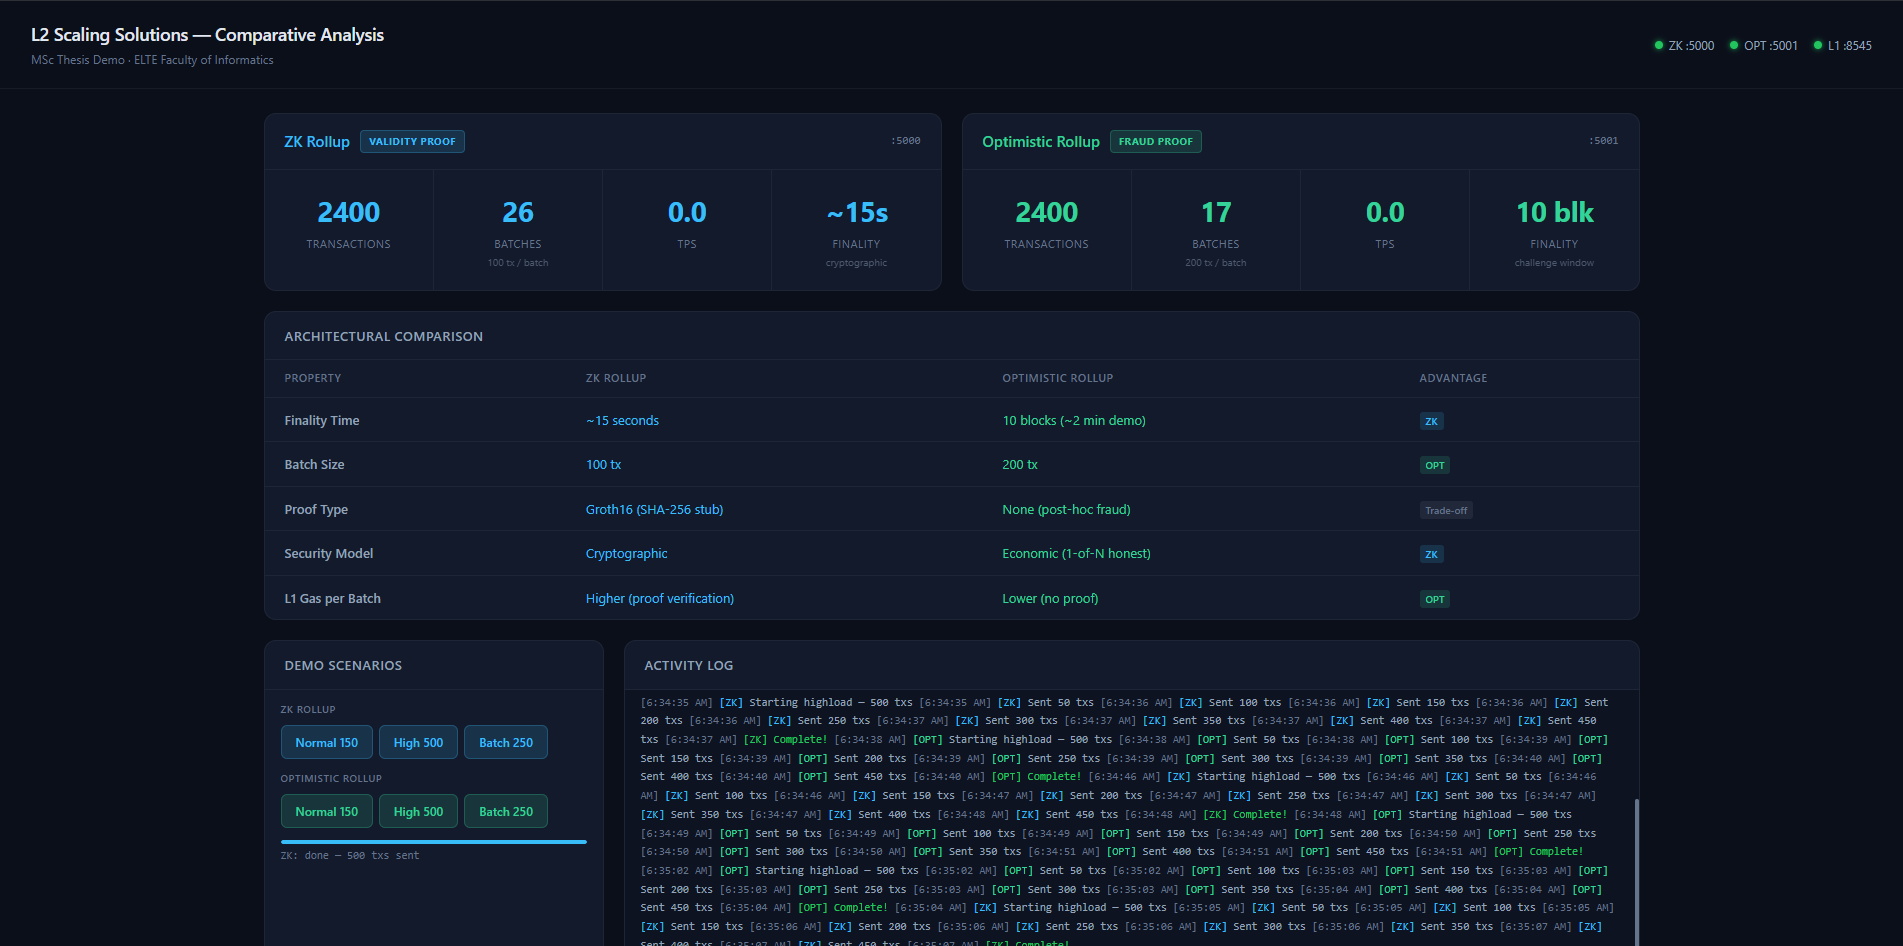
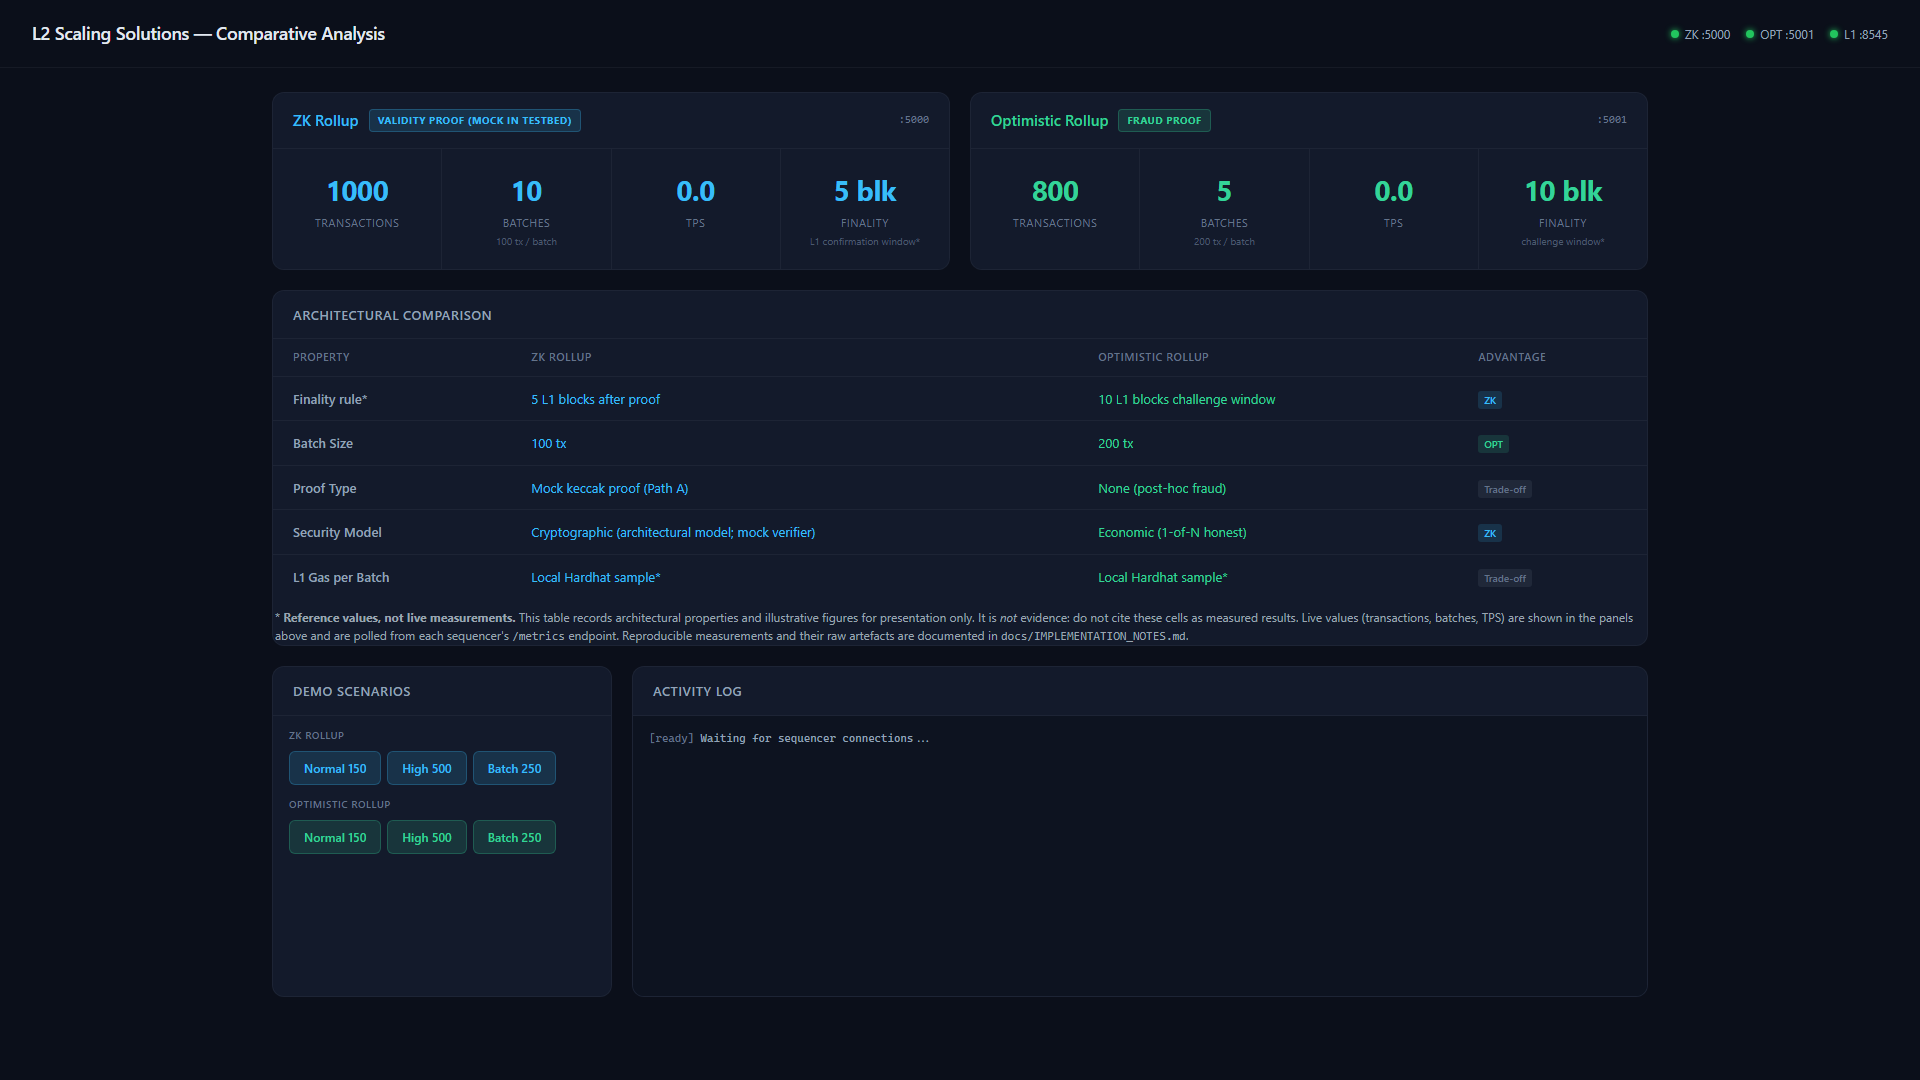
Refresh thesis dashboard figures and document reproduction
- Regenerate Grafana top/bottom and Flask overview screenshots with the
  current panel titles (L1 submission latency, mock proof labelling).
- Add a tested Playwright capture script and exact manual crop coordinates;
  Grafana scrolls internally so fullPage screenshots omit lower panels.
- Fix stale proof/state-root/contract-loading claims in figure captions and
  implementation prose; cap the oversized batch-flow figure.
- Note that the MetaMask screenshot predates the current mock-proof labels.
- Document traffic injection, stack ports, and the measurement source.

diff --git a/ths/images/capture_dashboards.js b/ths/images/capture_dashboards.js
@@ -1,0 +1,113 @@
+// Regenerate the three dashboard figures used by the thesis.
+//
+// Requirements:
+//   - the demo stack running: docker compose up --build -d
+//   - playwright-core installed locally: npm install --no-save playwright-core
+//   - a local Chromium/Edge executable (override with BROWSER_PATH)
+//
+// Run from this directory: node capture_dashboards.js
+//
+// Grafana scrolls its dashboard inside a nested container, so fullPage
+// screenshots do not include the lower panels. This script scrolls that
+// container explicitly and uses fixed clips for a reproducible framing.
+
+const { chromium } = require('playwright-core');
+const path = require('path');
+const http = require('http');
+
+const OUT = path.join(__dirname, 'dashboards');
+const EXEC = process.env.BROWSER_PATH ||
+  'C:\\Program Files (x86)\\Microsoft\\Edge\\Application\\msedge.exe';
+const GRAFANA = process.env.GRAFANA_URL || 'http://localhost:3001';
+const FLASK = process.env.FLASK_URL || 'http://localhost:3000';
+
+// Optional traffic injection so counters and latency panels are non-empty.
+function inject(port, n) {
+  return new Promise(resolve => {
+    let done = 0;
+    for (let i = 0; i < n; i++) {
+      const body = JSON.stringify({ from: `img${i}`, to: `img${i + 1}`, value: 10 });
+      const req = http.request({
+        host: '127.0.0.1', port, path: '/tx', method: 'POST',
+        headers: { 'Content-Type': 'application/json', 'Content-Length': Buffer.byteLength(body) }
+      }, res => { res.resume(); if (++done === n) resolve(); });
+      req.on('error', () => { if (++done === n) resolve(); });
+      req.end(body);
+    }
+  });
+}
+
+async function loginGrafana(page) {
+  await page.goto(GRAFANA + '/', { waitUntil: 'domcontentloaded' });
+  await page.waitForSelector('input[name="user"]', { timeout: 20000 });
+  await page.fill('input[name="user"]', 'admin');
+  await page.fill('input[name="password"]', 'admin');
+  await page.getByRole('button', { name: /log in/i }).first().click();
+  await page.waitForTimeout(4000);
+}
+
+(async () => {
+  if (process.argv.includes('--with-traffic')) {
+    await Promise.all([inject(5000, 500), inject(5001, 400)]);
+    console.log('traffic injected: 500 ZK + 400 Optimistic transactions');
+  }
+
+  const browser = await chromium.launch({
+    executablePath: EXEC, headless: true, args: ['--no-sandbox', '--disable-gpu']
+  });
+  const page = await browser.newPage({
+    viewport: { width: 1920, height: 1080 }, deviceScaleFactor: 1
+  });
+
+  try {
+    await loginGrafana(page);
+    await page.goto(GRAFANA + '/d/zk-optimistic-comparison/', { waitUntil: 'domcontentloaded' });
+    await page.waitForSelector('.react-grid-item', { timeout: 30000 });
+    await page.waitForTimeout(6000);
+
+    const titles = await page.evaluate(() =>
+      Array.from(document.querySelectorAll('.css-1x5lhtt-panel-title'))
+        .map(e => e.textContent.trim()));
+    console.log('top panel titles:', JSON.stringify(titles.slice(0, 8)));
+
+    // Top: nav, dashboard title, and the two stat rows (8 panels).
+    await page.screenshot({
+      path: path.join(OUT, 'grafana-top-panels.png'),
+      clip: { x: 0, y: 0, width: 1920, height: 570 }
+    });
+    console.log('wrote grafana-top-panels.png (1920x570)');
+
+    // Scroll the nested Grafana container to reveal panels 10-14.
+    const scrolled = await page.evaluate(() => {
+      const grid = document.querySelector('.react-grid-layout');
+      const cands = Array.from(document.querySelectorAll('*'))
+        .filter(e => e.scrollHeight > e.clientHeight + 100 && e.clientHeight > 200);
+      const target = cands.find(e => grid && e.contains(grid)) || cands[0];
+      if (!target) return null;
+      target.scrollTop = target.scrollHeight;
+      return { cls: String(target.className), top: target.scrollTop };
+    });
+    console.log('scrolled dashboard container:', JSON.stringify(scrolled));
+    await page.waitForTimeout(3000);
+
+    // Bottom: transaction-rate comparison plus the four lower panels.
+    await page.screenshot({
+      path: path.join(OUT, 'grafana-bottom-panels.png'),
+      clip: { x: 300, y: 110, width: 1555, height: 965 }
+    });
+    console.log('wrote grafana-bottom-panels.png (1555x965)');
+
+    await page.goto(FLASK + '/', { waitUntil: 'networkidle', timeout: 30000 });
+    await page.waitForTimeout(3000);
+    const flaskText = await page.evaluate(() => document.body.innerText);
+    if (!flaskText.includes('MOCK IN TESTBED')) {
+      throw new Error('Flask page did not show the mock-proof label; aborting capture');
+    }
+    await page.screenshot({
+      path: path.join(OUT, 'flask-dashboard-overview.png'), fullPage: true
+    });
+    console.log('wrote flask-dashboard-overview.png');
+  } finally {
+    await browser.close();
+  }
+})().catch(e => { console.error(e); process.exit(1); });

diff --git a/ths/chapters/implementation.tex b/ths/chapters/implementation.tex
@@ -122,7 +122,7 @@ The sequencers are implemented as independent Python processes using Flask~\cite
         \hline
         L1 gas per submission & $\sim$165,000 (Hardhat measured) & $\sim$171,000 (Hardhat measured) \\
         \hline
-        Contract loading & Per \texttt{\_batch()} call (lazy) & Once in \texttt{\_\_init\_\_} \\
+        Contract loading & \multicolumn{2}{l}{Both cache the handle once and retry on the next batch if deployment was pending} \\
         \hline
         L1 call & \texttt{ZKVerifier.submit(root, proof)} & \texttt{OptimisticVerifier.submit(root)} \\
         \hline
@@ -133,9 +133,9 @@ The sequencers are implemented as independent Python processes using Flask~\cite
 
 \textbf{Rationale for these differences}: The Optimistic model does not require proof generation at submission time, so the sequencer can afford larger batches and longer polling intervals. Batches of 200 transactions amortize the fixed gas cost of Layer~1 submission more effectively than 100-transaction batches. The longer polling interval (8 seconds vs. 5 seconds) reflects lower latency pressure: the Optimistic model's challenge window determines finality time, not submission latency.
 
-Conversely, the ZK sequencer's proof generation imposes a computational bottleneck at submission. To keep finality latency low and allow users to see their transactions finalized quickly, the ZK sequencer uses smaller batches and shorter polling intervals. The choice of 100 transactions per batch and 5-second polling is calibrated to keep batch assembly time below 1 second on typical hardware, enabling finality within 5-10 seconds.
+Conversely, the ZK path additionally computes a domain-separated mock proof, so the demo uses smaller batches and shorter polling intervals on that side. The choice of 100 transactions per batch and 5-second polling follows the mock-proof design: batch commitment computation is a few milliseconds (see Section~\ref{sec:proof}). No wall-clock finality is implied, because Hardhat mines only on transactions; the two thresholds are a design-level comparison, not a measured throughput optimum.
 
-The gas allocations reflect the difference in Layer~1 contract work. Measured values are $\sim$165,000 for ZK and $\sim$171,000 for Optimistic per submission. Counter-intuitively, Optimistic costs slightly more per submission because the \texttt{OptimisticVerifier.submit()} function writes a 10-field \texttt{Commitment} struct to storage (ten cold SSTOREs at 20,000 gas each), while \texttt{ZKVerifier.submit()} stores fewer fields. The overall gas difference between the two rollup types comes from batch count, not per-submission cost---see Section~\ref{sec:gas} for the full breakdown.
+The gas allocations reflect the difference in Layer~1 contract work. Measured values are $\sim$165,000 for ZK and $\sim$171,000 for Optimistic per submission. Counter-intuitively, Optimistic costs slightly more per submission because the \texttt{OptimisticVerifier.submit()} function writes a 10-field \texttt{Commitment} struct to storage (ten cold SSTOREs at 20,000 gas each), while \texttt{ZKVerifier.submit()} stores fewer fields. The two paths submit at different frequencies because of their batch thresholds (100 versus 200 transactions); no multi-batch total gas figure is reported here because no raw artefact supports one---see Section~\ref{sec:gas} for the per-submission measurements.
 
 \subsection{Sequencer Implementation Structure}
 
@@ -144,12 +144,7 @@ Both sequencers follow the same four-step structure:
 \begin{enumerate}
     \item \texttt{add\_tx(tx)}: Accept a transaction via HTTP POST and append it to the pending pool.
     \item \texttt{periodic\_batch()}: Background thread that wakes up every N seconds; if the pool has reached the batch threshold, call \texttt{\_batch()}.
-    \item \texttt{\_batch()}: Compute the state root (and proof, if ZK), then submit to Layer~1. The two sequencers differ here in two ways:
-        \begin{itemize}
-            \item The \textbf{ZK sequencer} reads \texttt{/app/contracts.json} on \emph{every} \texttt{\_batch()} call to obtain the verifier address. There is no contract handle stored in \texttt{\_\_init\_\_}. If the file is absent (for example, deployment has not completed), the exception is caught and the batch is dropped silently.
-            \item The \textbf{Optimistic sequencer} calls \texttt{\_init\_contract()} in \texttt{\_\_init\_\_} and stores the contract handle as \texttt{self.contract}. If that initial call failed because the L1 node was not ready, \texttt{\_batch()} retries \texttt{\_init\_contract()} before proceeding.
-        \end{itemize}
-        This difference has a practical effect: the ZK sequencer tolerates a slow deploy by simply skipping batches until the file appears; the Optimistic sequencer needs a successful L1 connection at startup.
+    \item \texttt{\_batch()}: Compute the canonical keccak256 batch commitment (and the mock proof, if ZK), then submit to Layer~1. Both sequencers use the same contract-loading strategy: each calls \texttt{\_init\_contract()} once and caches the handle as \texttt{self.contract}. If deployment was not ready at startup, \texttt{\_batch()} retries the initialisation on the next batch instead of dropping it permanently. This lets both paths tolerate a slow deployment without a fixed wall-clock wait.
     \item \texttt{calculate\_tps()}: Background thread that updates the throughput gauge periodically.
 \end{enumerate}
 
@@ -308,7 +303,7 @@ A scripted run against a freshly deployed stack (\texttt{l1/scripts/demo\_withdr
 \begin{figure}[htbp]
     \centering
     \includegraphics[width=0.95\textwidth]{web3-demo/withdrawal-finality-demo.png}
-    \caption{The withdrawal demo after a live MetaMask run, ZK already claimed next to Optimistic still mid-challenge-window.}
+    \caption{The withdrawal demo after a live MetaMask run, ZK already claimed next to Optimistic still mid-challenge-window. This capture predates the current mock-proof labelling in the demo page; the live UI now marks the ZK proof as a mock stand-in.}
     \label{fig:web3-demo}
 \end{figure}
 

diff --git a/ths/chapters/framework.tex b/ths/chapters/framework.tex
@@ -79,8 +79,8 @@ We record timestamps at each step. The difference between submission block and f
 
 \begin{figure}[htbp]
     \centering
-    \includegraphics[width=0.70\textwidth]{architecture/batch-flow.png}
-    \caption{The \texttt{\_batch()} function in both sequencers: the ZK path adds a mock proof hash and reloads \texttt{contracts.json} each call; the Optimistic path uses a preloaded handle and increments a batch counter.}
+    \includegraphics[width=0.70\textwidth,height=0.72\textheight,keepaspectratio]{architecture/batch-flow.png}
+    \caption{The \texttt{\_batch()} function in both sequencers: both compute the same keccak256 Merkle batch commitment; the ZK path additionally computes a domain-separated mock proof. Both cache the verifier handle once and retry on later batches if deployment was still pending.}
     \label{fig:batch-flow}
 \end{figure}
 

diff --git a/ths/images/README.md b/ths/images/README.md
@@ -1,13 +1,7 @@
 # Thesis Images
 
-This directory holds figures referenced in the thesis chapters.
-
-## Current status
-
-All figures referenced by the chapters are present. There is no `results/`
-directory and none is needed: the throughput and finality figures described in
-the old capture plan below were abandoned because the metrics cannot support the
-claims they were meant to illustrate (see `docs/IMPLEMENTATION_NOTES.md`).
+This directory holds the figures referenced in the thesis chapters. All
+referenced files are present.
 
 | File | Status | Referenced in |
 |------|--------|---------------|
@@ -21,29 +15,152 @@ claims they were meant to illustrate (see `docs/IMPLEMENTATION_NOTES.md`).
 | `tests.png` | EXISTS | implementation.tex |
 | `implemented-repos.png` | EXISTS | relatedwork.tex |
 
-## How the existing screenshots were captured
+**Golden rule:** every screenshot is an *illustration* of the live demo, not
+measurement evidence. No numeric value quoted in the thesis is read from a
+screenshot. The published numbers come from `measurement/raw/baseline-path-a.json`
+and are explained in `docs/IMPLEMENTATION_NOTES.md`.
 
-- Flask dashboard: start the stack with `docker compose up --build`, open
-  `http://localhost:3000`, run the scenarios, wait for counters to update, and
-  screenshot the full browser window.
-- Grafana: open `http://localhost:3001` (login `admin` / `admin`), dashboard
-  "ZK / Optimistic Rollup L2 Metrics Comparison", set the range to Last 5 minutes
-  and zoom out until the panels fit. Panels are provisioned from
-  `config/grafana/dashboards/zk-optimistic-comparison.json`.
+## Reproducing the dashboard screenshots
 
-**Treat every screenshot as an illustration of the live system, never as
-measurement evidence.** Reproducible numbers live in
-`measurement/raw/baseline-path-a.json` and are explained in
-`docs/IMPLEMENTATION_NOTES.md`.
+The three figures under `dashboards/` are generated by
+`capture_dashboards.js` in this directory. They were last regenerated after the
+Grafana panels were renamed to "L1 Submission Latency" and the mock proof was
+labelled explicitly.
+
+### 1. Start the stack
+
+From the repository root:
+
+```bash
+docker compose up --build -d
+```
+
+Wait for the services to answer before capturing:
+
+| Service | URL | Notes |
+|---------|-----|-------|
+| Flask dashboard | `http://localhost:3000` | counters shown here |
+| Grafana | `http://localhost:3001` | login `admin` / `admin` |
+| Web3 demo | `http://localhost:3002` | MetaMask needed for live states |
+| Hardhat L1 RPC | `http://localhost:8545` | mines on transactions only |
+| ZK L2 API / metrics | `http://localhost:5000` / `:9100` | |
+| Optimistic L2 API / metrics | `http://localhost:5001` / `:9101` | |
+| Prometheus | `http://localhost:9090` | |
+
+Grafana provisions its dashboard from
+`config/grafana/dashboards/zk-optimistic-comparison.json` and reloads it every
+10 seconds (`config/grafana/provisioning/dashboards/default.yml`), so panel
+titles always match the committed JSON.
+
+### 2. Inject representative traffic (optional but recommended)
+
+Empty panels are still a valid capture, but counters and latency series are
+more informative. Post directly to both sequencers, for example:
+
+```python
+import json, urllib.request
+from concurrent.futures import ThreadPoolExecutor
+
+def post(url, i):
+    body = json.dumps({"from": f"user{i}", "to": f"user{i+1}", "value": 10}).encode()
+    req = urllib.request.Request(url, data=body,
+                                 headers={"Content-Type": "application/json"},
+                                 method="POST")
+    with urllib.request.urlopen(req, timeout=5) as r:
+        return r.status
+
+for port, n in [(5000, 500), (5001, 400)]:
+    with ThreadPoolExecutor(max_workers=20) as ex:
+        res = list(ex.map(lambda i: post(f"http://localhost:{port}/tx", i), range(n)))
+    print(port, "posted", n, "statuses:", {s: res.count(s) for s in set(res)})
+```
+
+Check that the counters moved:
+
+```bash
+curl http://localhost:9100/metrics | findstr l2_transactions_total
+curl http://localhost:9101/metrics | findstr opt_l2_transactions_total
+```
+
+### 3. Capture automatically
+
+From `ths/images/`:
+
+```bash
+npm install --no-save playwright-core
+node capture_dashboards.js --with-traffic
+```
+
+`BROWSER_PATH` can point at a local Chrome/Edge executable (the script defaults
+to the Windows Edge path). `GRAFANA_URL` and `FLASK_URL` override the defaults.
+
+The script logs in, verifies the eight corrected panel titles, and writes:
+
+- `dashboards/grafana-top-panels.png` — 1920×570 clip: navigation, dashboard
+  title, and the two stat rows (total transactions, batches, current TPS, and
+  **L1 submission latency** for both paths).
+- `dashboards/grafana-bottom-panels.png` — 1555×965 clip: transaction-rate
+  comparison plus the four lower panels (mock proof generation time,
+  optimistic batch processing time, pending transactions, gas per batch).
+- `dashboards/flask-dashboard-overview.png` — full-page capture of the Flask
+  dashboard; the script aborts if the "VALIDITY PROOF (MOCK IN TESTBED)" label
+  is missing.
+
+### 4. Capture manually (equivalent)
+
+If you prefer the browser UI:
+
+1. Open `http://localhost:3001`, log in with `admin` / `admin`, and select
+   **ZK / Optimistic Rollup L2 Metrics Comparison**.
+2. Keep the browser window at **1920×1080** with device scale factor 1.
+3. For the top figure, screenshot the viewport and crop `(0, 0)–(1920, 570)`.
+4. For the bottom figure, scroll **the dashboard's inner container** (not the
+   page) to the end, then crop `(300, 110)–(1855, 1075)`. A normal "full page"
+   screenshot will *not* work: Grafana scrolls internally at this viewport.
+5. For the Flask figure, open `http://localhost:3000` and take a full-page
+   screenshot once the counters have loaded.
+
+Do not quote numbers from these images. The latency panels are sub-second
+Hardhat submission-to-receipt measurements, not protocol finality.
+
+## Other figures
+
+- `web3-demo/withdrawal-finality-demo.png` is a **historical live-MetaMask
+  capture** from an earlier run. Its labels predate the current UI, which now
+  says "validity-proof model (mock proof)"; the thesis caption notes this. It
+  cannot be reproduced headlessly because the finality badges require signed
+  wallet transactions. To reproduce it manually, follow `web3-demo/README.md`
+  with a funded local MetaMask account and capture the page together with the
+  MetaMask Activity tab.
+- `dashboards/docker-containers.png`, `tests.png`, and `implemented-repos.png`
+  are ordinary screenshots of `docker ps`, the test runner, and the repository
+  list. No automation is provided; recapture by running the relevant command
+  or opening the relevant page.
+- The two figures under `architecture/` are diagrams, not captures.
+
+## Reproducing the measurements
+
+The numeric claims come from one committed artefact:
+
+```bash
+docker compose --profile test run --rm --workdir /app \
+  test-runner python measurement/capture.py
+```
+
+This regenerates `measurement/raw/baseline-path-a.json`, which contains the
+commitment and mock-proof timing percentiles and the crash-loss invariant. See
+`measurement/README.md` for the full scope of what is and is not measured.
+Re-run after changing the commitment or proof helpers; append a new campaign id
+rather than overwriting an existing artefact.
 
 ## Abandoned capture plan (do not follow)
 
-The following steps from an earlier version of this file must not be used:
+An earlier version of this file proposed figures that the data cannot support:
 
-- Do **not** build a throughput bar chart from `l2_tps` / `opt_l2_tps`. Instantaneous
-  TPS in this testbed is dominated by the HTTP injection loop, not by the
-  architecture. The former "39–43% advantage" claim was removed for lack of a raw
-  artefact.
+- Do **not** build a throughput bar chart from `l2_tps` / `opt_l2_tps`.
+  Instantaneous TPS is dominated by the HTTP injection loop, not by the
+  architecture. The former "39–43% advantage" claim was removed for lack of a
+  raw artefact.
 - Do **not** plot `*_finality_time_seconds_bucket` as a protocol-finality CDF.
   Those histograms record **L1 submission-to-receipt latency** (sub-second in
   Hardhat). They do not plateau at 15 s / 120 s, and 15 s / 7 days are protocol
